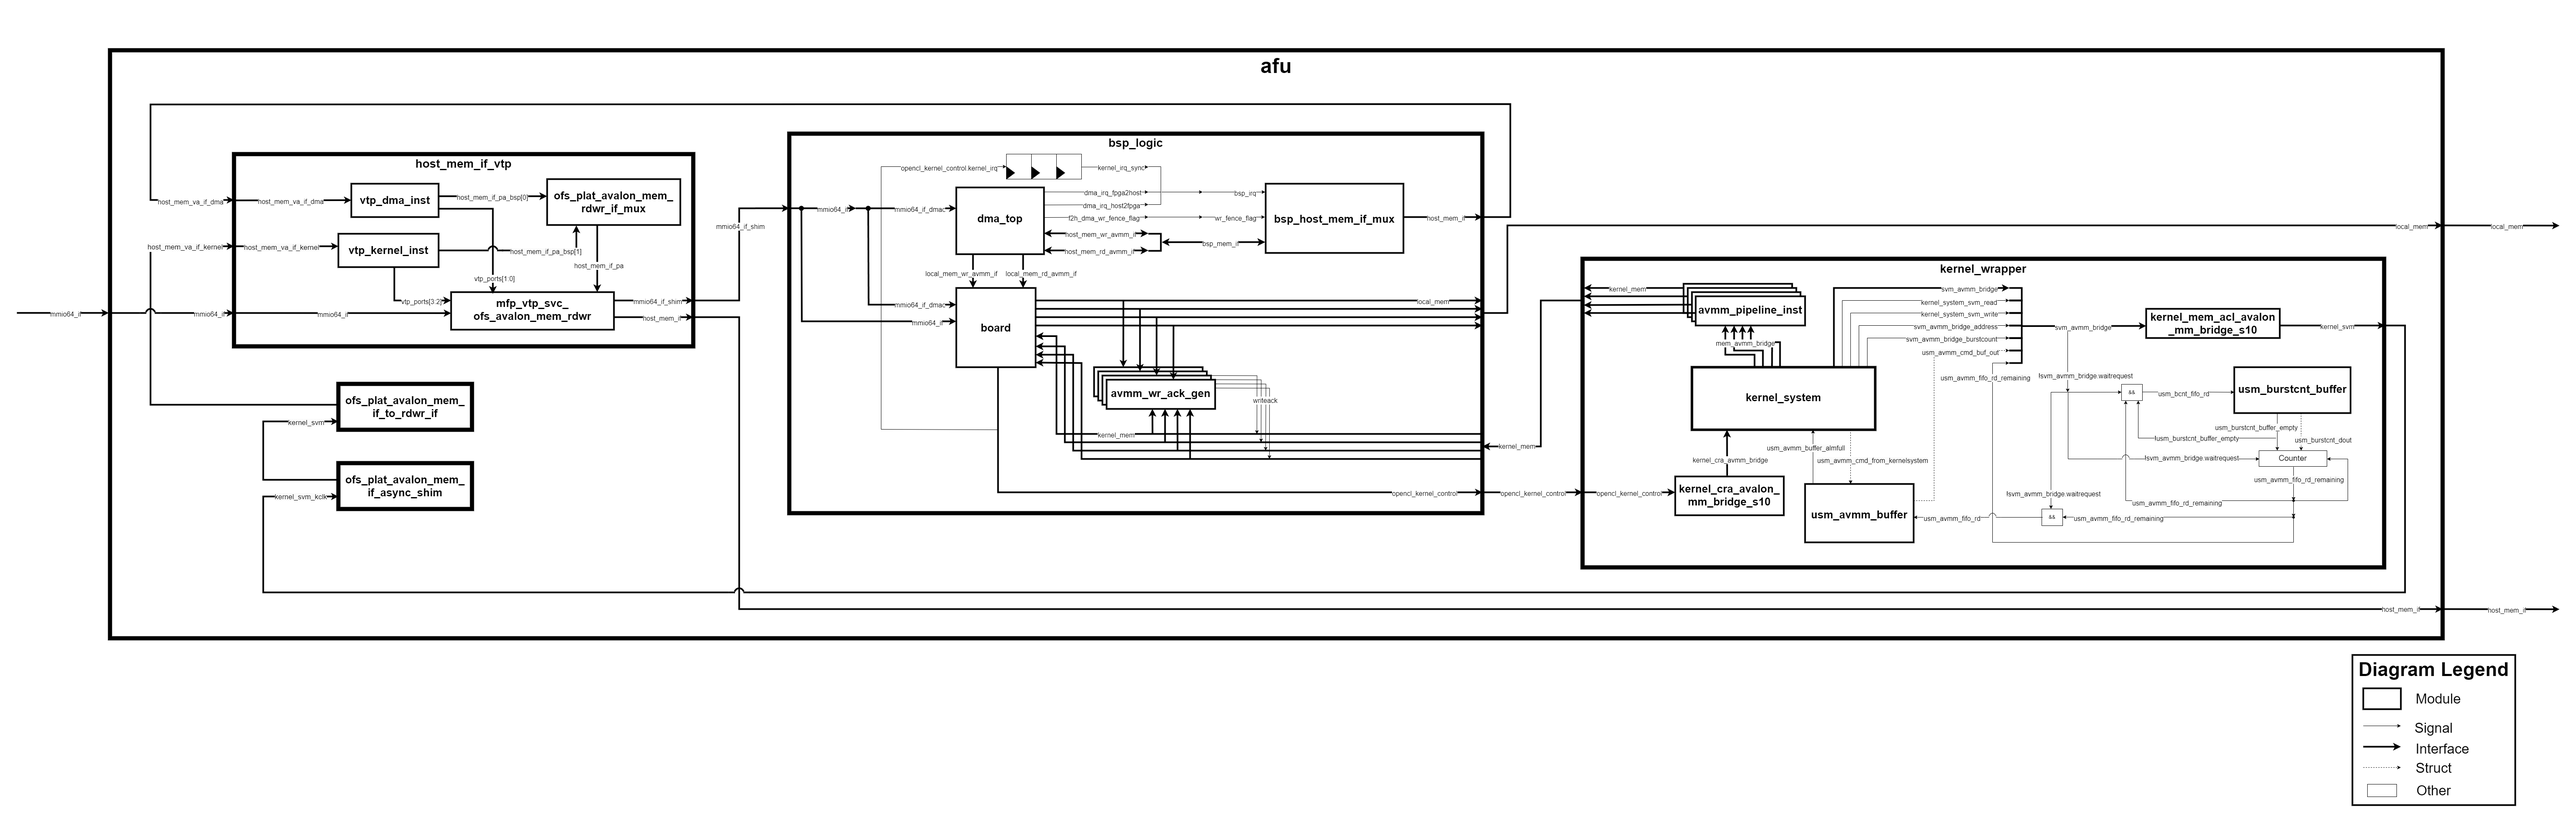
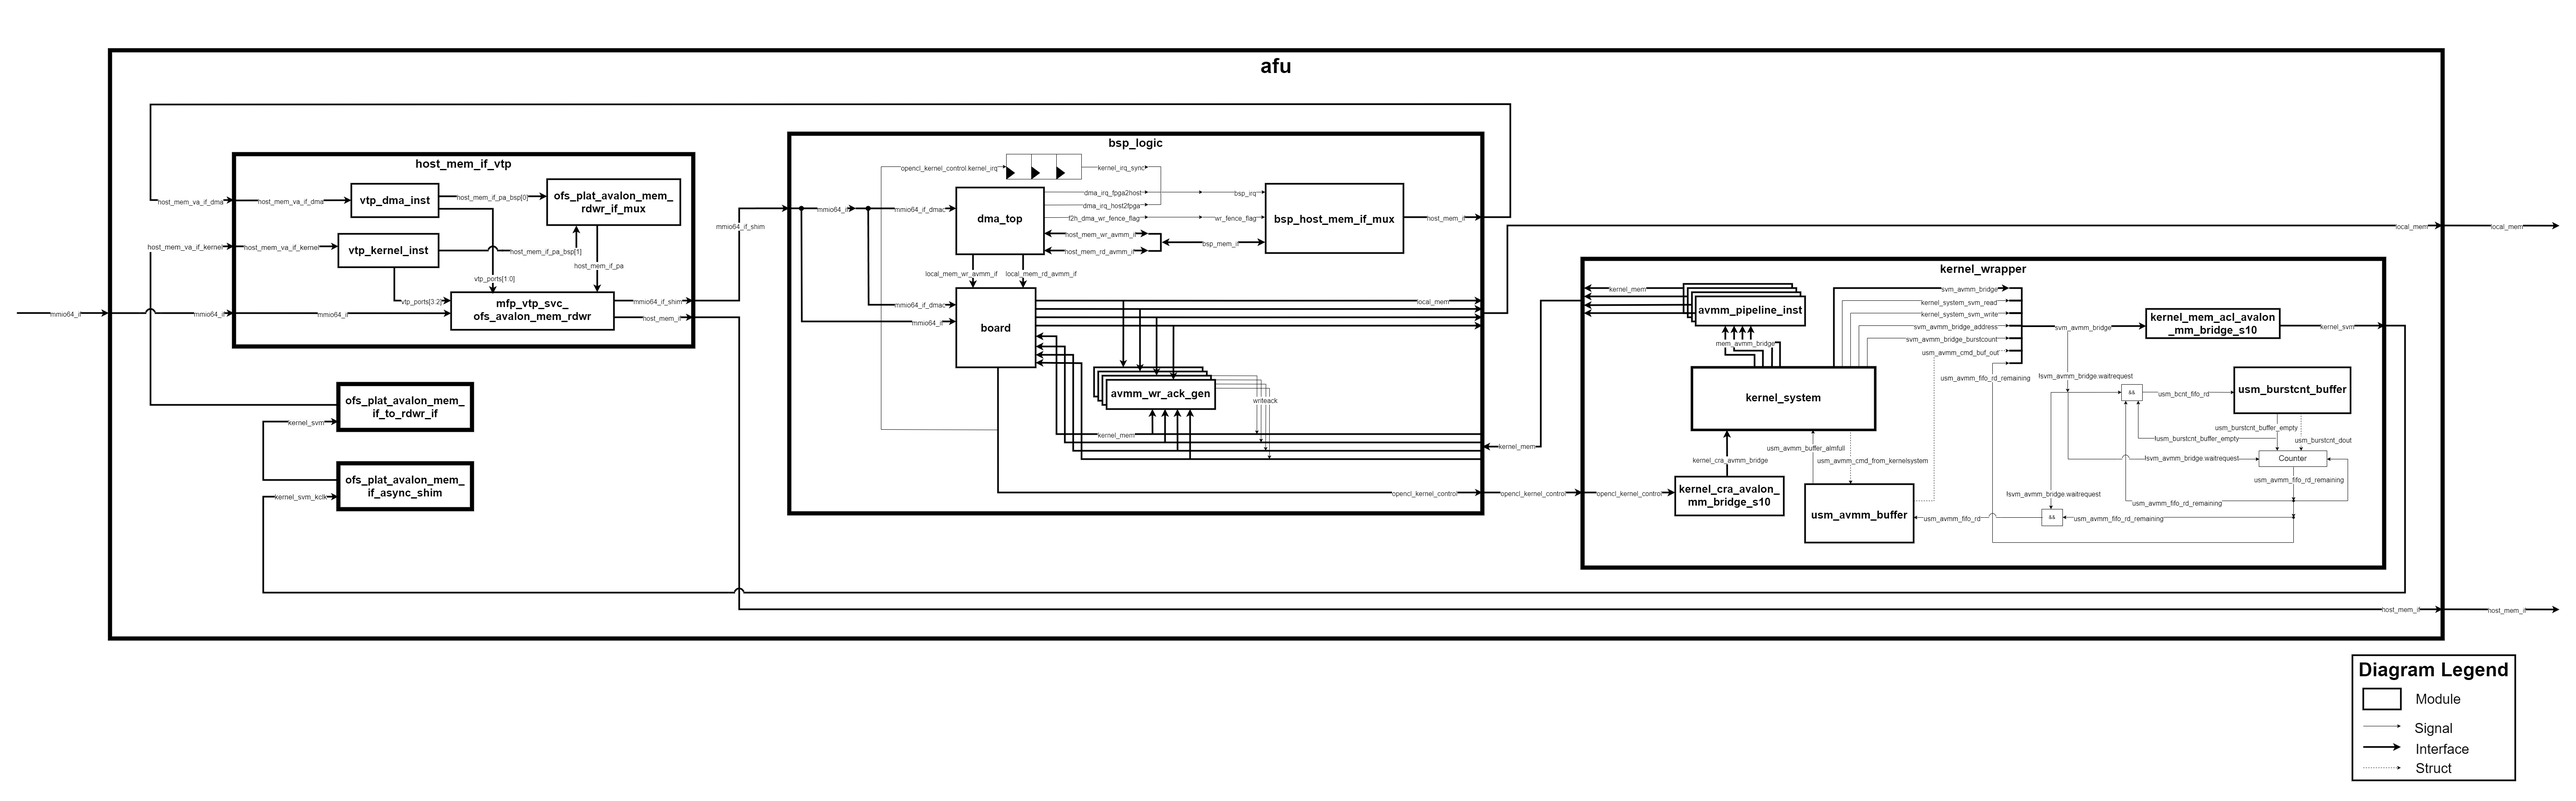
Update doc

Changed region(s): [[0.0, 0.125, 0.9958, 0.9688], [0.4668, 0.0625, 0.529, 0.0938]]

diff --git a/doc/arch_diagram.md b/doc/arch_diagram.md
@@ -22,19 +22,25 @@
 
 
 ## Modules Description <a name="ch_modules"></a>
-* `mem_if_vpt`: Translates virtual addresses into physical addresses (Virtual to Physical Translation - VTP).
-* `bsp_logic` : Contains the BSP logic.
-  * `dma_top`: DMA.
+* `mem_if_vpt/host_mem_if_vtp`: Translates virtual addresses into physical addresses (Virtual to Physical Translation - VTP). It is located on the host memory datapath.
+* `bsp_logic`
+  * `dma_top`: DMA module provides a controller to execute transfers from host to DDR on the board and vice versa.
   * `board`: Wraps the interfaces, especially DDR memory bank on-baord.
   * `bsp_host_mem_if_mux`: Inserts special transactions on the AVMM bus (Avalon Memory-Mapped Interface), which are evaluated as interrupt by the host (linux drivers) when *kernel_irq* signal is high.
   * `avmm_wr_ack_gen`: Generates ack in order to guarantee the AVMM bus right behaviour.
 * `kernel_wrapper`:
-  * `avmm_pipeline_inst`: Pipeline bridge from the kernel to board.qsys. 
+  * `avmm_pipeline_inst`: Pipeline bridge from the kernel to board. 
+  * `kernel_cra_avalon_mm_bridge_s10`: Pipeline bridge from board to the kernel.
+  * `kernel_mem_acl_avalon_mm_bridge_s10`: Pipeline bridge from kernel to host_mem_if_vtp.
   * `kernel_system`: Hardware generated from SYCL, it has four interfaces:
     * output interrupt line (kernel_irq).
     * AVMM slave CSR interface used to write parameters and commands (e.g. start, busy, pending interrupt, etc).
     * read/write AVMM master interface for each DDR memory bank.
     * read/write AVMM master interface for host memory (Shared/Unified Virtual Memory SVM/USM).
+  * `usm_burstcnt_buffer/usm_avmm_buffer`: Single-clock FIFO functions used for data buffering.
+* `udp_offload_engine`: Allow transmitting UDP/IP packets over HSSI.
+* `ofs_plat_avalon_mem_if_to_rdwr_if`: Convert kernel_svm AVMM interface into host_mem_if.
+* `ofs_plat_avalon_mem_if_async_shim`: Clock crossing bridge for the Avalon memory interface.
 
 ## Standars <a name="ch_standards"></a>
 * `Master/Host/Source`: It has read, write, writedata and address signals as output, to specify slave's operations.

diff --git a/doc/ofs.md b/doc/ofs.md
@@ -18,8 +18,8 @@ The `Open FPGA Stack (OFS)`<sup>[[1]](references.md#ref_oneapi_asp_ref)</sup> is
 ## Accelerator Functional Unit <a name="ch_afu"></a>
 The `Accelerator Functional Unit (AFU)`<sup>[[1]](references.md#ref_oneapi_asp_ref)</sup>  is a hardware accelerator implemented in FPGA logic which offloads a computational operation for an application from the CPU to improve performance. 
 
-### oneAPI Accelerator Support Package <a name="ch_asp"></a>
-The `oneAPI Accelerator Support Package (ASP)`<sup>[[1]](references.md#ref_oneapi_asp_ref)</sup>  is a set of hardware and software components which guarantees the comunication between `oneAPI kernel` (converted into a hardware circuit by the compiler) and the `oneAPI runtime` and `other OFS hardware/software components`. The ASP is equivalent to a `Board Support Package (BSP)`<sup>[[2]](references.md#ref_bsp)</sup>, which is a set of software layers and an FPGA hardware design used to target the FPGA through the Intel oneAPI DPC++/C++ Compiler.
+### Accelerator Support Package <a name="ch_asp"></a>
+The `Accelerator Support Package (ASP)`<sup>[[1]](references.md#ref_oneapi_asp_ref)</sup>  is a set of hardware and software components which guarantees the comunication between `oneAPI kernel` (converted into a hardware circuit by the compiler) and the `oneAPI runtime` and `other OFS hardware/software components`. The ASP is equivalent to a `Board Support Package (BSP)`<sup>[[2]](references.md#ref_bsp)</sup>, which is a set of software layers and an FPGA hardware design used to target the FPGA through the Intel oneAPI DPC++/C++ Compiler.
 
 ASP is made up of:
 * `RTL Components`: Represent interface logic (host to kernel interface, etc..) to handle kernel control signals and perform Direct Memory Access (DMA).

diff --git a/doc/references.md b/doc/references.md
@@ -26,6 +26,8 @@
 * [oneAPI Matrix Multiply Sample](https://github.com/oneapi-src/oneAPI-samples/blob/ccd57a1ff0245bf7b09c2a0b84fa35bce9412d88/DirectProgramming/C%2B%2BSYCL_FPGA/ReferenceDesigns/matmul)
 * [oneAPI kernel_args_restrict Sample](https://github.com/oneapi-src/oneAPI-samples/tree/2024.0.0/DirectProgramming/C++SYCL_FPGA/Tutorials/Features/kernel_args_restrict)
 * [OneAPI-ASP n6001](https://github.com/OFS/oneapi-asp/tree/ofs-2023.2-1/n6001)
+* [Avalon-MM Pipeline Bridge](https://www.intel.com/content/www/us/en/docs/programmable/683364/18-1/mm-pipeline-bridge.html)
+* [FIFO Intel FPGA IP User Guide](https://www.intel.com/content/www/us/en/docs/programmable/683522/18-0/user-guide.html)
 * [afu.sv](https://github.com/OFS/oneapi-asp/blob/ofs-2023.2-1/n6001/hardware/ofs_n6001_iopipes/build/rtl/afu.sv)
 * [ofs_plat_avalon_mem_if.sv](https://github.com/OFS/ofs-platform-afu-bbb/blob/ofs-2023.2-1/plat_if_develop/ofs_plat_if/src/rtl/base_ifcs/avalon/ofs_plat_avalon_mem_if.sv)
 * [mpf_vtp_svc_ofs_avalon_mem_rdwr.sv](https://github.com/OPAE/intel-fpga-bbb/blob/ofs-2023.2-1/BBB_mpf_vtp/hw/rtl/svc_shims/mpf_vtp_svc_ofs_avalon_mem_rdwr.sv)

diff --git a/README.md b/README.md
@@ -14,7 +14,7 @@ The project has the following strcuture:
 1. [Overall Stack ](doc/ofs.md)
     * [Open FPGA Stack](doc/ofs.md#ch_ofs)
     * [Accelerator Functional Unit](doc/ofs.md#ch_afu)
-        * [oneAPI Accelerator Support Package](doc/ofs.md#ch_asp)
+        * [Accelerator Support Package](doc/ofs.md#ch_asp)
 1. [Data movement mechanisms](doc/samples.md)    
     * [Pipes](doc/samples.md#ch_pipes)
         * [Pipes Sample](doc/samples.md#ch_pipes_s)
